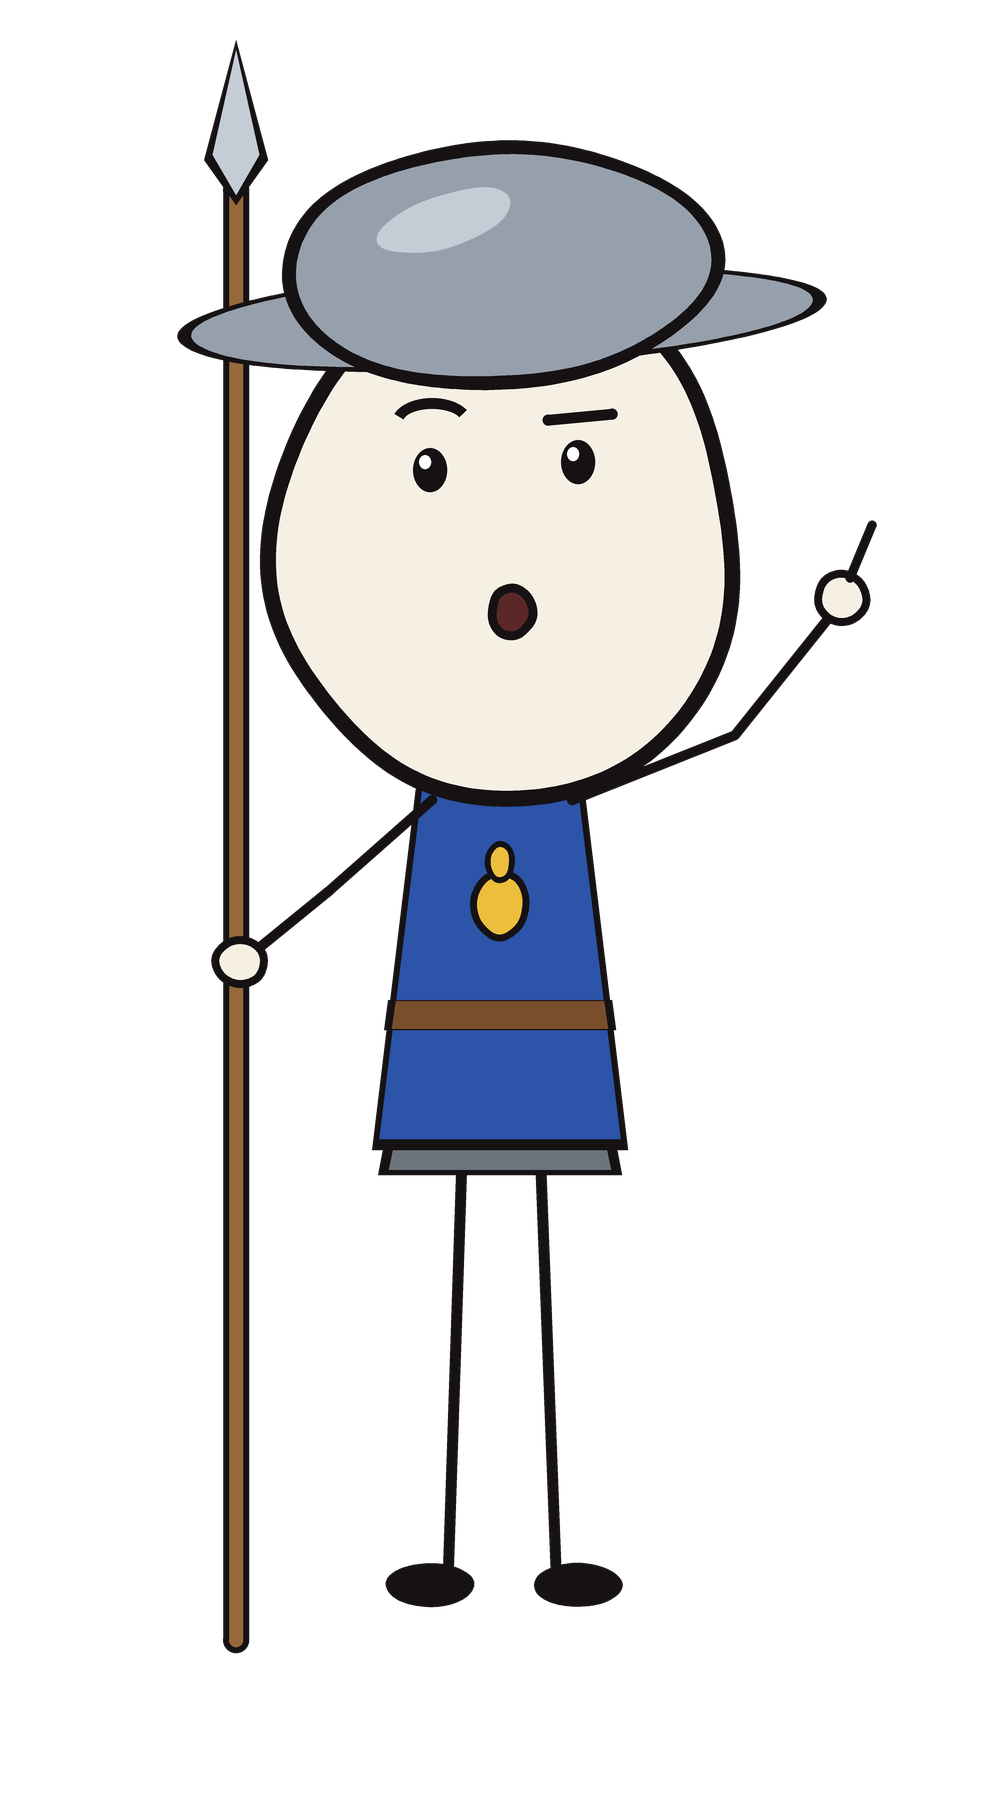
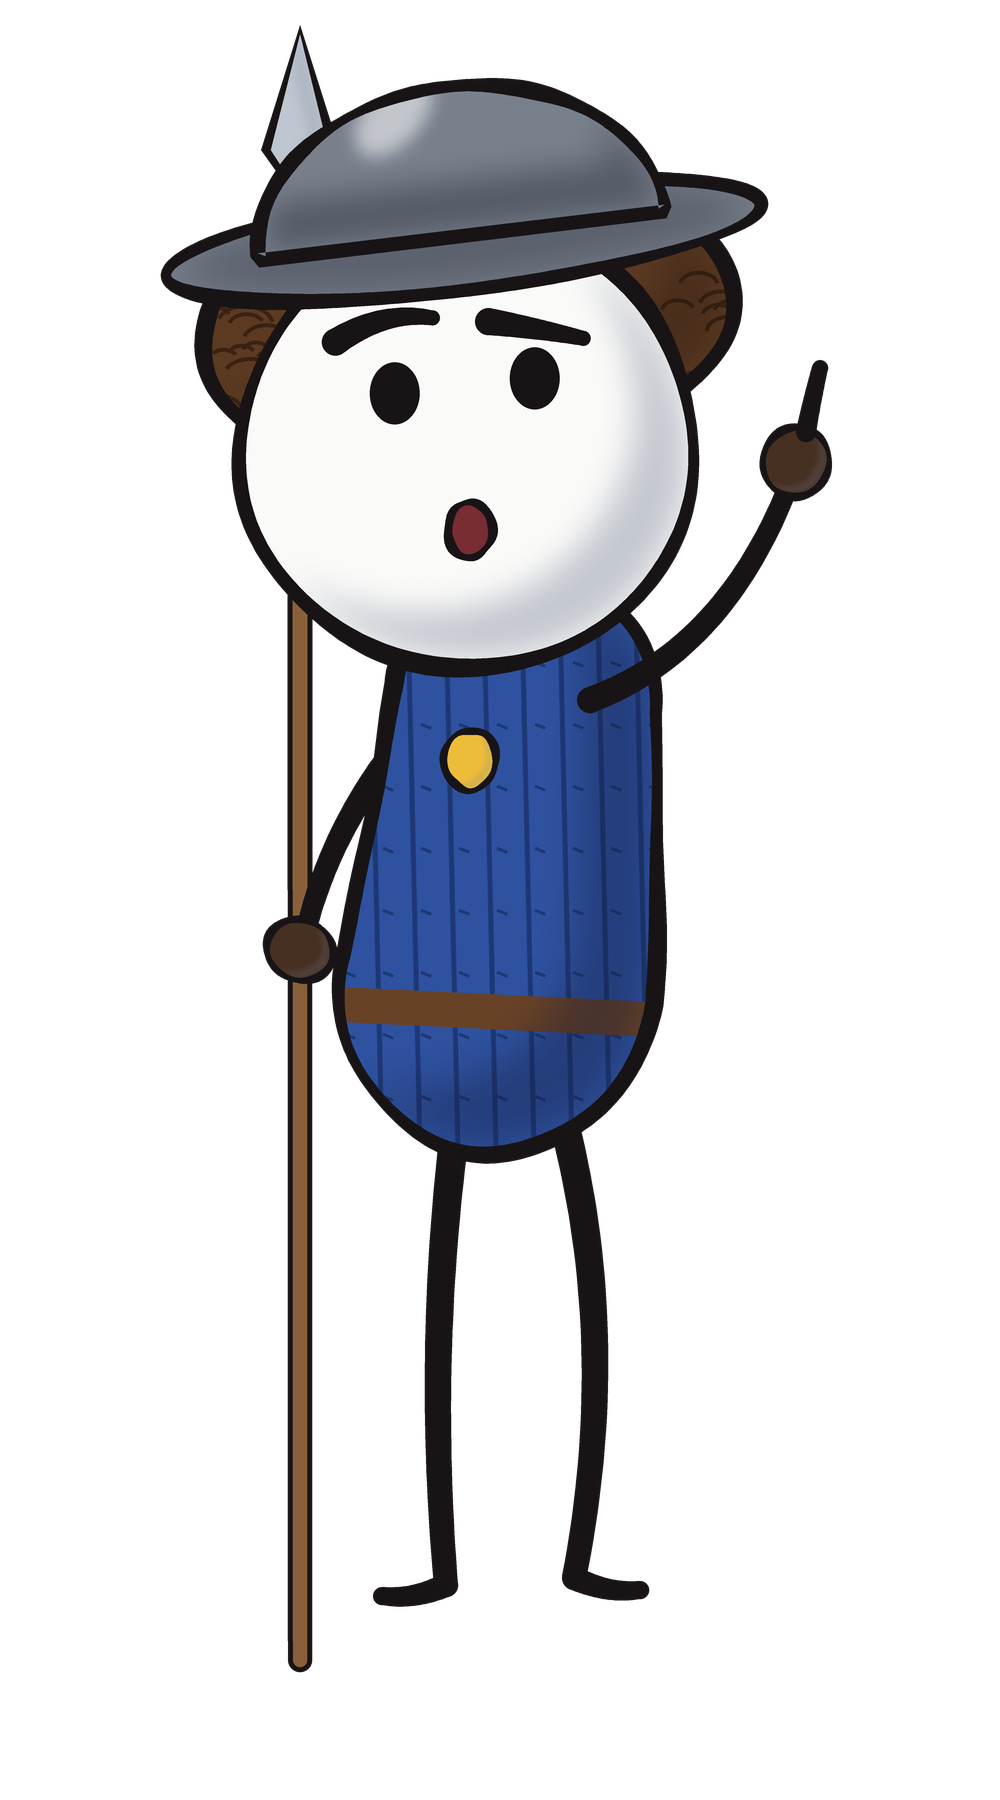
Rework character kit to match reference grammar: round shaded heads, capsule bodies, tapered limbs, thick brows
Claude-Session: https://claude.ai/code/session_01McZ6zry63KNKzUyiod2wMJ

Changed region(s): [[0.155, 0.0, 0.837, 0.9333], [0.744, 0.28, 0.868, 0.4044]]

diff --git a/tools/charkit.py b/tools/charkit.py
@@ -1,72 +1,171 @@
-"""2D cartoon character drawing kit (Ricks-like look): wavy bean heads, thick black outlines,
-flat colours, stick limbs. Draws at SS x supersampling and downsamples, output RGBA PNG.
-All coordinates are in final pixels; helpers scale them."""
+"""2D cartoon character kit in the Ricks-like grammar (original designs only):
+- near-round white heads with a soft grey shading crescent, no neck, head sits on a soft capsule body
+- brush-like outlines of varying thickness
+- tiny black dot eyes (optional eyelids), thick angled tapered eyebrows carry the emotion
+- tapered curved stick limbs, small hooked feet, small dark mitten hands
+- clothes with fabric patterns and shading
+Draws at SS x supersampling and downsamples. Coordinates are final pixels."""
 import math, random
-from PIL import Image, ImageDraw
+from PIL import Image, ImageDraw, ImageFilter, ImageChops
 
-INK = (22, 18, 20, 255)
+INK = (24, 20, 22, 255)
+WHITE = (250, 250, 248, 255)
+
+
+def _norm(x, y):
+    L = math.hypot(x, y) or 1.0
+    return x / L, y / L
+
+
+def resample(pts, n):
+    """resample a closed polyline to n evenly spaced points"""
+    seg = [math.dist(pts[i], pts[(i + 1) % len(pts)]) for i in range(len(pts))]
+    total = sum(seg); out = []; i = 0; acc = 0.0
+    for k in range(n):
+        target = total * k / n
+        while acc + seg[i] < target:
+            acc += seg[i]; i = (i + 1) % len(pts)
+        t = (target - acc) / (seg[i] or 1)
+        a, b = pts[i], pts[(i + 1) % len(pts)]
+        out.append((a[0] + (b[0] - a[0]) * t, a[1] + (b[1] - a[1]) * t))
+    return out
+
+
+def ellipse_pts(cx, cy, rx, ry, n=240, wobble=0.0, bean=0.0, rot=0.0, seed=1):
+    r = random.Random(seed); ph = [r.uniform(0, 6.3) for _ in range(4)]
+    pts = []
+    for i in range(n):
+        t = 2 * math.pi * i / n
+        k = 1 + wobble * (0.6 * math.sin(2 * t + ph[0]) + math.sin(3 * t + ph[1]) + 0.5 * math.sin(5 * t + ph[2]) + 0.25 * math.sin(7 * t + ph[3])) / 2.35
+        x = math.cos(t) * rx * k; y = math.sin(t) * ry * k
+        x *= 1 + bean * (y / ry)
+        pts.append((cx + x * math.cos(rot) - y * math.sin(rot), cy + x * math.sin(rot) + y * math.cos(rot)))
+    return pts
+
+
+def capsule_pts(cx, cy, w_top, w_bot, h, rot=0.0, wobble=0.015, seed=1, n=260):
+    """soft pill/sack body: rounded top of width w_top, rounded bottom of width w_bot"""
+    rt, rb = w_top / 2, w_bot / 2; pts = []
+    yt = -h / 2 + rt; yb = h / 2 - rb
+    for i in range(41):                                   # top arc (left -> right over the top)
+        a = math.pi + math.pi * i / 40; pts.append((rt * math.cos(a), yt + rt * math.sin(a)))
+    for i in range(41):                                   # bottom arc (right -> left under the bottom)
+        a = math.pi * i / 40; pts.append((rb * math.cos(a), yb + rb * math.sin(a)))
+    pts = resample(pts, n)
+    r = random.Random(seed); ph = [r.uniform(0, 6.3) for _ in range(3)]; out = []
+    for i, (x, y) in enumerate(pts):
+        t = 2 * math.pi * i / n
+        k = 1 + wobble * (math.sin(3 * t + ph[0]) + 0.5 * math.sin(5 * t + ph[1]) + 0.3 * math.sin(9 * t + ph[2]))
+        x, y = x * k, y * k
+        out.append((cx + x * math.cos(rot) - y * math.sin(rot), cy + x * math.sin(rot) + y * math.cos(rot)))
+    return out
+
+
+def offset(pts, d):
+    """offset a closed polygon along vertex normals; d is a list (per vertex) or a number. +d = outward"""
+    n = len(pts); cx = sum(p[0] for p in pts) / n; cy = sum(p[1] for p in pts) / n
+    area = sum(pts[i][0] * pts[(i + 1) % n][1] - pts[(i + 1) % n][0] * pts[i][1] for i in range(n))
+    sgn = 1 if area > 0 else -1
+    out = []
+    for i in range(n):
+        ax, ay = pts[i - 1]; bx, by = pts[(i + 1) % n]
+        nx, ny = _norm(by - ay, -(bx - ax)); nx, ny = nx * sgn, ny * sgn
+        di = d[i] if isinstance(d, (list, tuple)) else d
+        out.append((pts[i][0] + nx * di, pts[i][1] + ny * di))
+    return out
 
 
 class Canvas:
-    def __init__(self, w, h, ss=4, seed=1):
+    def __init__(self, w, h, ss=4, seed=1, light=(-0.7, -0.7)):
         self.w, self.h, self.ss = w, h, ss
         self.im = Image.new("RGBA", (w * ss, h * ss), (0, 0, 0, 0))
         self.d = ImageDraw.Draw(self.im)
-        self.rng = random.Random(seed)
+        self.rng = random.Random(seed); self.light = _norm(*light)
 
     def P(self, pts):
         return [(x * self.ss, y * self.ss) for x, y in pts]
 
-    # ---- primitives -------------------------------------------------------
-    def blob(self, cx, cy, rx, ry, fill, outline=14, wobble=0.03, bean=0.0, rot=0.0, n=220, seed=None):
-        """Irregular closed shape: ellipse with low-frequency radial wobble; bean>0 widens the bottom."""
-        r = random.Random(seed if seed is not None else self.rng.random())
-        ph = [r.uniform(0, 6.28) for _ in range(4)]
-        def pts(extra):
-            out = []
-            for i in range(n):
-                t = 2 * math.pi * i / n
-                k = 1 + wobble * (math.sin(2 * t + ph[0]) * .6 + math.sin(3 * t + ph[1]) + .5 * math.sin(5 * t + ph[2]) + .25 * math.sin(7 * t + ph[3])) / 2.35
-                x = math.cos(t) * rx * k; y = math.sin(t) * ry * k
-                x *= 1 + bean * (y / ry)
-                xr = x * math.cos(rot) - y * math.sin(rot); yr = x * math.sin(rot) + y * math.cos(rot)
-                L = math.hypot(xr, yr) or 1
-                out.append((cx + xr + xr / L * extra, cy + yr + yr / L * extra))
-            return out
-        if outline:
-            self.d.polygon(self.P(pts(outline / 2)), fill=INK)
-        self.d.polygon(self.P(pts(-outline / 2 if outline else 0)), fill=fill)
+    def _mask(self, pts):
+        m = Image.new("L", self.im.size, 0); ImageDraw.Draw(m).polygon(self.P(pts), fill=255); return m
 
-    def poly(self, pts, fill, outline=12):
+    # ---- filled shape with brush outline, shading and optional pattern ---------------------------------
+    def shape(self, pts, fill, outline=14, var=0.35, shade=0.32, shade_col=(120, 128, 150), pattern=None, seed=None, hi=0.0):
+        r = random.Random(seed if seed is not None else self.rng.random()); ph = [r.uniform(0, 6.3) for _ in range(3)]
+        n = len(pts)
+        th = [outline * (1 + var * (0.6 * math.sin(2 * math.pi * i / n * 2 + ph[0]) + 0.4 * math.sin(2 * math.pi * i / n * 5 + ph[1]))) for i in range(n)]
         if outline:
-            self.d.polygon(self.P(pts), fill=INK)
-            # inset by shrinking toward centroid (good enough for convex-ish shapes)
-            cx = sum(p[0] for p in pts) / len(pts); cy = sum(p[1] for p in pts) / len(pts)
-            ins = []
-            for x, y in pts:
-                dx, dy = x - cx, y - cy; L = math.hypot(dx, dy) or 1
-                ins.append((x - dx / L * outline, y - dy / L * outline))
-            self.d.polygon(self.P(ins), fill=fill)
+            self.d.polygon(self.P(offset(pts, [t * 0.5 for t in th])), fill=INK)
+            inner = offset(pts, [-t * 0.5 for t in th])
         else:
-            self.d.polygon(self.P(pts), fill=fill)
+            inner = pts
+        mask = self._mask(inner)
+        layer = Image.new("RGBA", self.im.size, fill)
+        if pattern:
+            pattern(ImageDraw.Draw(layer), self)
+        if shade or hi:
+            xs = [p[0] for p in inner]; ys = [p[1] for p in inner]
+            size = max(max(xs) - min(xs), max(ys) - min(ys))
+            lx, ly = self.light
+            if shade:
+                sh = offset(inner, 0); dx, dy = lx * size * 0.16, ly * size * 0.16
+                lit = self._mask([(x + dx, y + dy) for x, y in sh])
+                cres = ImageChops.subtract(mask, lit).filter(ImageFilter.GaussianBlur(size * self.ss * 0.035))
+                sl = Image.new("RGBA", self.im.size, (*shade_col, 255)); sl.putalpha(cres.point(lambda v: int(v * shade)))
+                layer = Image.alpha_composite(layer, sl)
+            if hi:
+                cx = (max(xs) + min(xs)) / 2 + lx * size * 0.22; cy = (max(ys) + min(ys)) / 2 + ly * size * 0.22
+                hm = self._mask(ellipse_pts(cx, cy, size * 0.12, size * 0.07, rot=math.atan2(ly, lx) + 1.57)).filter(ImageFilter.GaussianBlur(size * self.ss * 0.02))
+                hl = Image.new("RGBA", self.im.size, (255, 255, 255, 255)); hl.putalpha(hm.point(lambda v: int(v * hi)))
+                layer = Image.alpha_composite(layer, hl)
+        layer.putalpha(ImageChops.multiply(layer.getchannel("A"), mask))
+        self.im.alpha_composite(layer)
 
-    def line(self, pts, width=10, fill=INK):
-        p = self.P(pts); w = int(width * self.ss)
-        self.d.line(p, fill=fill, width=w, joint="curve")
-        for x, y in (p[0], p[-1]):
-            self.d.ellipse([x - w / 2, y - w / 2, x + w / 2, y + w / 2], fill=fill)
+    # ---- tapered curved stroke (limbs, brows, hair) ------------------------------------------------------
+    def limb(self, a, c, b, w0=12, w1=8, fill=INK, outline=0, n=40):
+        pts = []
+        for i in range(n + 1):
+            t = i / n
+            pts.append(((1 - t) ** 2 * a[0] + 2 * (1 - t) * t * c[0] + t * t * b[0], (1 - t) ** 2 * a[1] + 2 * (1 - t) * t * c[1] + t * t * b[1]))
+        left, right = [], []
+        for i, p in enumerate(pts):
+            q0 = pts[max(0, i - 1)]; q1 = pts[min(n, i + 1)]
+            nx, ny = _norm(-(q1[1] - q0[1]), q1[0] - q0[0])
+            w = (w0 + (w1 - w0) * i / n) / 2 + outline
+            left.append((p[0] + nx * w, p[1] + ny * w)); right.append((p[0] - nx * w, p[1] - ny * w))
+        col = INK if outline else fill
+        self.d.polygon(self.P(left + right[::-1]), fill=col)
+        for p, w in ((pts[0], w0 / 2 + outline), (pts[-1], w1 / 2 + outline)):
+            self.dot(p[0], p[1], w, w, col)
+        if outline:
+            self.limb(a, c, b, w0, w1, fill, 0, n)
+        return pts
 
-    def stroke(self, pts, width, color, outline=6):
-        """coloured stick with black outline (spear shaft, etc.)"""
-        self.line(pts, width + 2 * outline, INK); self.line(pts, width, color)
+    def dot(self, x, y, rx, ry=None, fill=INK, rot=0.0):
+        ry = ry or rx
+        if rot:
+            self.d.polygon(self.P(ellipse_pts(x, y, rx, ry, n=60, rot=rot)), fill=fill)
+        else:
+            s = self.ss; self.d.ellipse([(x - rx) * s, (y - ry) * s, (x + rx) * s, (y + ry) * s], fill=fill)
 
-    def dot(self, x, y, rx, ry=None, fill=INK):
-        ry = ry or rx; s = self.ss
-        self.d.ellipse([(x - rx) * s, (y - ry) * s, (x + rx) * s, (y + ry) * s], fill=fill)
+    def poly(self, pts, fill):
+        self.d.polygon(self.P(pts), fill=fill)
 
-    def arc(self, box, a0, a1, width=10, fill=INK):
-        s = self.ss
-        self.d.arc([v * s for v in box], a0, a1, fill=fill, width=int(width * s))
+    # ---- face helpers ------------------------------------------------------------------------------------
+    def eye(self, x, y, size=13, lid=0.0, look=(0, 0), lid_tilt=0.0, skin=WHITE):
+        """dot eye; lid 0..1 covers the top part with an eyelid line (smug / tired / suspicious)"""
+        ex, ey = x + look[0] * size * 0.25, y + look[1] * size * 0.25
+        self.dot(ex, ey, size * 0.8, size)
+        if lid > 0:
+            ly = y - size + 2 * size * lid
+            ang = lid_tilt
+            pts = [(x - size * 2, ly - size * 3), (x + size * 2, ly - size * 3), (x + size * 2, ly + math.tan(ang) * size * 2), (x - size * 2, ly - math.tan(ang) * size * 2)]
+            self.poly(pts, skin)
+            self.limb((x - size * 1.5, ly - math.tan(ang) * size * 1.5), (x, ly), (x + size * 1.5, ly + math.tan(ang) * size * 1.5), size * 0.55, size * 0.4)
+
+    def brow(self, x, y, length=70, angle=0.0, arch=0.0, w=16):
+        """thick tapered eyebrow; angle in degrees (+ = inner end down / angry when mirrored), arch = curve up"""
+        a = math.radians(angle); dx, dy = math.cos(a) * length / 2, math.sin(a) * length / 2
+        self.limb((x - dx, y - dy), (x, y - arch), (x + dx, y + dy), w, w * 0.55)
 
     def save(self, path):
         self.im.resize((self.w, self.h), Image.LANCZOS).save(path)

diff --git a/projects/09-castle-toilet/chars/bogis.py b/projects/09-castle-toilet/chars/bogis.py
@@ -1,49 +1,71 @@
-"""Bogis, French foot soldier, 1204. Pose: looking up, pointing up, spear in the other hand. Expression: curious."""
-import sys, os
+"""Bogis, French foot soldier, 1204 (original design). Pose: head tilted back, looking up, pointing up, spear.
+Style: round white head with soft shading, capsule body in a padded gambeson, tapered limbs, thick brows."""
+import sys, os, math
 sys.path.insert(0, os.path.join(os.path.dirname(__file__), "../../../tools"))
-from charkit import Canvas, INK
+from charkit import Canvas, INK, WHITE, ellipse_pts, capsule_pts
 
-SKIN = (246, 240, 228, 255)
-STEEL = (150, 160, 172, 255); STEEL_HI = (196, 204, 214, 255)
-BLUE = (44, 84, 168, 255); GOLD = (236, 190, 60, 255); BROWN = (120, 78, 44, 255); WOOD = (150, 104, 60, 255)
-MAIL = (110, 116, 124, 255)
+BLUE = (46, 82, 160, 255); BLUE_D = (30, 56, 118, 255)
+STEEL = (120, 128, 140, 255); WOOD = (138, 96, 58, 255); STEEL_HI = (190, 198, 208, 255)
+BELT = (104, 66, 38, 255); GOLD = (236, 188, 58, 255); HAIR = (92, 58, 34, 255); MITT = (70, 48, 34, 255)
+
+
+def gambeson(draw, c):
+    s = c.ss
+    for x in range(330, 700, 38):                                   # padded vertical channels
+        draw.line([(x * s, 540 * s), ((x + 14) * s, 1160 * s)], fill=BLUE_D, width=int(5 * s))
+    for y in range(600, 1150, 62):                                  # stitch dashes
+        for x in range(345, 700, 38):
+            draw.line([(x * s, y * s), ((x + 10) * s, (y + 4) * s)], fill=BLUE_D, width=int(3 * s))
+    draw.polygon([(c.P([(300, 985)])[0]), (c.P([(720, 1005)])[0]), (c.P([(720, 1040)])[0]), (c.P([(300, 1020)])[0])], fill=BELT)
+
+
+def hair_curls(draw, c):
+    import random
+    r = random.Random(3); s = c.ss; dark = (58, 34, 18, 255)
+    for _ in range(160):
+        x = r.uniform(200, 740); y = r.uniform(180, 470); w = r.uniform(14, 30)
+        draw.arc([(x - w) * s, (y - w * 0.7) * s, (x + w) * s, (y + w * 0.7) * s], r.uniform(180, 230), r.uniform(320, 360), fill=dark, width=int(4 * s))
+
 
 def draw(path, expr="curious"):
-    c = Canvas(1000, 1800, ss=4, seed=7)
-    # spear (behind body)
-    c.stroke([(236, 190), (236, 1640)], 14, WOOD, 6)
-    c.poly([(236, 40), (268, 160), (236, 205), (204, 160)], STEEL_HI, 10)
-    # legs + shoes
-    c.line([(462, 1150), (448, 1575)], 11); c.line([(540, 1150), (556, 1575)], 11)
-    c.blob(430, 1585, 44, 22, INK, outline=0, wobble=0.02, seed=3)
-    c.blob(578, 1585, 44, 22, INK, outline=0, wobble=0.02, seed=4)
-    # body: mail shirt hem under a blue tabard
-    c.poly([(400, 1060), (600, 1060), (622, 1175), (378, 1175)], MAIL, 12)
-    c.poly([(418, 770), (582, 770), (628, 1150), (372, 1150)], BLUE, 13)
-    c.poly([(388, 1000), (612, 1000), (616, 1030), (384, 1030)], BROWN, 8)          # belt
-    c.blob(500, 905, 26, 32, GOLD, outline=7, wobble=0.05, seed=11)                 # simple lily badge
-    c.blob(500, 862, 12, 18, GOLD, outline=6, wobble=0.04, seed=12)
-    # arms: left holds spear, right points up at the toilet
-    c.line([(432, 800), (330, 890), (244, 960)], 10)
-    c.blob(240, 962, 24, 22, SKIN, outline=8, seed=21)
-    c.line([(572, 800), (735, 735), (835, 610)], 10)
-    c.blob(842, 598, 24, 24, SKIN, outline=8, seed=22)
-    c.line([(850, 578), (872, 525)], 9)                                              # pointing finger
-    # head: pale wavy bean, slightly tilted back (looking up)
-    c.blob(505, 535, 232, 262, SKIN, outline=16, wobble=0.045, bean=0.07, rot=-0.06, seed=5)
-    # kettle helmet: brim + dome
-    c.blob(500, 318, 318, 48, STEEL, outline=14, wobble=0.02, rot=-0.06, seed=31)
-    c.blob(500, 266, 214, 118, STEEL, outline=14, wobble=0.03, rot=-0.06, seed=32)
-    c.blob(445, 221, 70, 26, STEEL_HI, outline=0, wobble=0.05, rot=-0.3, seed=33)    # highlight
-    # face (eyes high = looking up)
+    c = Canvas(1000, 1800, ss=4, seed=7, light=(-0.75, -0.65))
+    # spear behind everything
+    c.limb((300, 175), (300, 900), (300, 1660), 15, 14, WOOD, outline=5)
+    c.shape([(300, 30), (334, 150), (300, 200), (266, 150)], STEEL_HI, outline=10, var=0.2, shade=0.25, seed=2)
+    # legs (one straight, one bent) with small hooked feet
+    c.limb((462, 1080), (424, 1330), (446, 1585), 30, 24)
+    c.limb((446, 1585), (414, 1600), (382, 1596), 24, 18)
+    c.limb((552, 1080), (625, 1320), (574, 1578), 30, 24)
+    c.limb((574, 1578), (608, 1594), (640, 1590), 24, 18)
+    # left arm to the spear (behind body)
+    c.limb((420, 720), (330, 820), (304, 940), 26, 20)
+    c.shape(ellipse_pts(300, 950, 34, 30, rot=0.4, seed=21), MITT, outline=7, shade=0.2, seed=21)
+    # body: soft capsule, slight lean back
+    c.shape(capsule_pts(510, 860, 260, 320, 580, rot=0.10, seed=4), BLUE, outline=15, shade=0.38, shade_col=(20, 26, 60), pattern=gambeson, seed=4)
+    c.shape(ellipse_pts(470, 760, 26, 30, wobble=0.06, seed=11), GOLD, outline=7, shade=0.2, seed=11)   # lily patch
+    # right arm pointing up at the toilet (in front)
+    c.limb((590, 700), (725, 650), (790, 482), 26, 20)
+    c.shape(ellipse_pts(796, 462, 33, 35, rot=0.3, seed=22), MITT, outline=7, shade=0.2, seed=22)
+    c.limb((806, 432), (812, 400), (820, 368), 20, 16)
+    # hair mass behind the head (shows at the sides under the brim)
+    c.shape(ellipse_pts(468, 330, 262, 150, wobble=0.07, rot=-0.12, seed=51), HAIR, outline=14, shade=0.3, shade_col=(30, 18, 10), pattern=hair_curls, seed=51)
+    # head: near-round white, tilted back
+    c.shape(ellipse_pts(468, 445, 228, 222, wobble=0.022, bean=0.03, rot=-0.12, seed=5), WHITE, outline=15, shade=0.42, seed=5)
+    # hair tufts under the helmet
+    # kettle helmet: brim + dome with highlight
+    dome = [p for p in ellipse_pts(462, 236, 205, 150, n=240, rot=-0.12, seed=31)]
+    c.shape(ellipse_pts(462, 240, 300, 50, wobble=0.015, rot=-0.12, seed=30), STEEL, outline=13, shade=0.35, shade_col=(30, 34, 44), seed=30, hi=0.25)
+    top = [p for i, p in enumerate(dome) if i >= 120] + [dome[0]]
+    c.shape(top, STEEL, outline=13, shade=0.4, shade_col=(30, 34, 44), seed=31, hi=0.55)
+    # face: looking up and to the right
     if expr == "curious":
-        c.dot(430, 470, 17, 22); c.dot(578, 462, 17, 22)
-        c.dot(425, 462, 6, 7, (255, 255, 255, 255)); c.dot(573, 454, 6, 7, (255, 255, 255, 255))
-        c.arc([392, 398, 472, 446], 200, 330, 11)          # left brow raised, arched
-        c.line([(548, 420), (612, 414)], 11)               # right brow flat
-        c.blob(512, 612, 20, 24, (90, 40, 40, 255), outline=9, wobble=0.06, seed=41)  # small "o" mouth
+        c.eye(392, 398, 31, look=(0.35, -0.6)); c.eye(532, 383, 31, look=(0.35, -0.6))
+        c.brow(384, 330, 100, angle=-14, arch=20, w=27)       # raised, arched
+        c.brow(536, 330, 96, angle=10, arch=2, w=27)          # lower, flatter: suspicious
+        c.shape(ellipse_pts(470, 530, 22, 28, wobble=0.05, seed=41), (120, 44, 52, 255), outline=8, shade=0, seed=41)
     c.save(path)
     return path
+
 
 if __name__ == "__main__":
     print(draw(sys.argv[1] if len(sys.argv) > 1 else "bogis.png"))
